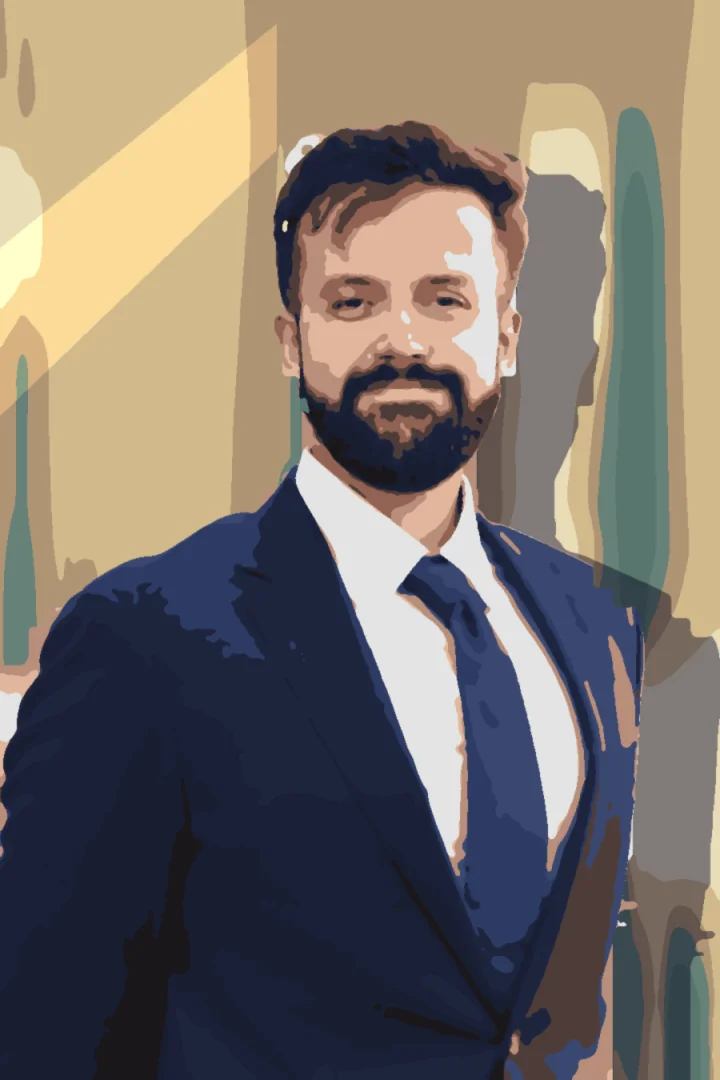
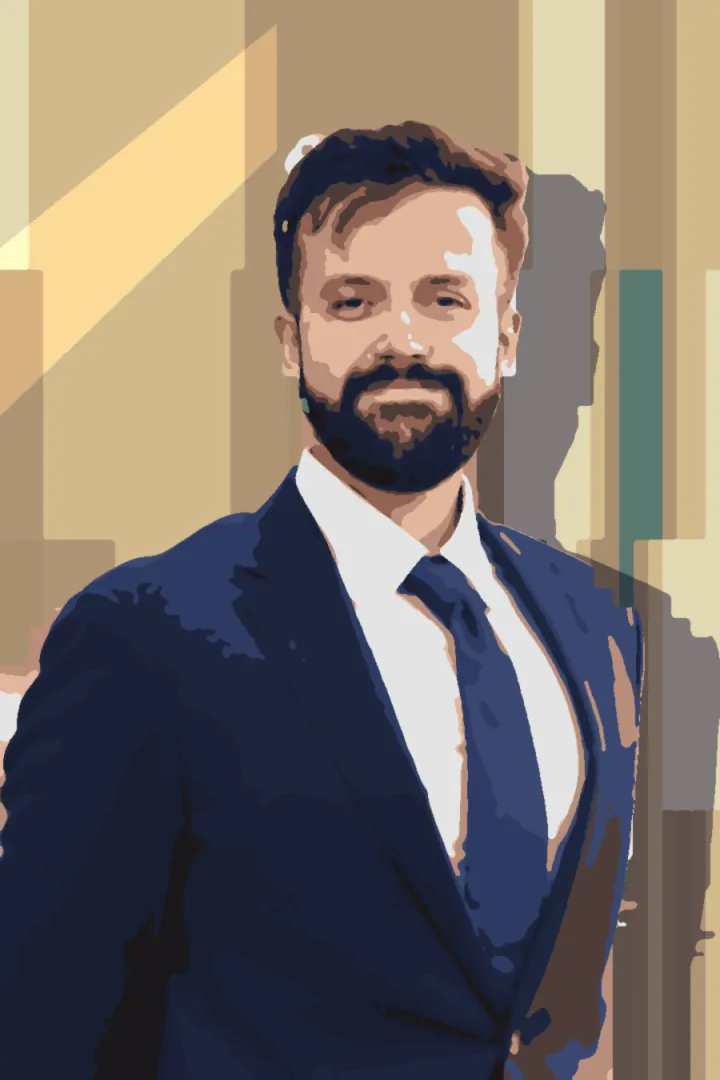
feat: refine the after-hours gallery portraits (#679)
* feat: refine the portrait paintings and show them uncropped in the gallery

Monet keeps broad strokes instead of grain, Seurat drops the confetti
sparks from the face and suit, Hopper's wall becomes straight panels,
and Lichtenstein's skin screen is finer. The gallery shows the 2:3
paintings at full size instead of cropping them to 4:5.

* chore: remove the portrait renderers again and point the docs at them

diff --git a/src/components/discoveries/PainterGallery.tsx b/src/components/discoveries/PainterGallery.tsx
@@ -13,7 +13,7 @@ const LABELS = [
 export function PainterGallery() {
   return <>
     <div className={styles.gallery}>{PAINTERS.map((painter, index) => <figure className={styles.painting} key={painter}>
-      <Image src={`/images/home/headshot-${painter}.webp`} alt={`Isaac's portrait in a style inspired by ${LABELS[index][1].slice(6)}`} width={480} height={600} sizes="(max-width: 640px) 90vw, 320px" loading={index < 3 ? "eager" : "lazy"} />
+      <Image src={`/images/home/headshot-${painter}.webp`} alt={`Isaac's portrait in a style inspired by ${LABELS[index][1].slice(6)}`} width={720} height={1080} sizes="(max-width: 640px) 90vw, 320px" loading={index < 3 ? "eager" : "lazy"} />
       <figcaption><h2>{LABELS[index][0]}</h2><p className={styles.note}>{LABELS[index][1]} · Digital study</p><p>{LABELS[index][2]}</p></figcaption>
     </figure>)}</div>
     <p className={styles.note}>Five interpretations of the same headshot. These are styled portraits, and the labels are part of the joke.</p>

diff --git a/src/components/discoveries/discoveries.module.css b/src/components/discoveries/discoveries.module.css
@@ -25,7 +25,7 @@
 .station { display: flex; align-items: center; min-height: 44px; padding: var(--c97-sp-1); margin-right: var(--c97-sp-1); text-decoration: underline; text-underline-offset: 4px; }
 .gallery { display: grid; grid-template-columns: repeat(auto-fit, minmax(min(100%, 260px), 1fr)); gap: var(--c97-sp-4); }
 .painting { border: 1px solid var(--c97-rule); padding: var(--c97-sp-2); }
-.painting img { width: 100%; height: auto; aspect-ratio: 4 / 5; object-fit: cover; }
+.painting img { width: 100%; height: auto; aspect-ratio: 2 / 3; }
 .painting h2 { font-family: var(--c97-font-display); font-size: 1.3rem; margin-top: var(--c97-sp-2); }
 .painting p { margin-top: var(--c97-sp-1); }
 .retro { border: 5px ridge var(--c97-rule); padding: var(--c97-sp-3); background: repeating-linear-gradient(45deg, transparent 0 20px, var(--c97-accent-soft) 20px 22px); font-family: Georgia, serif; }

diff --git a/docs/EASTER_EGGS.md b/docs/EASTER_EGGS.md
@@ -47,7 +47,7 @@ Most of the site-wide ones mount from the header, which is on every route. `src/
 
 Hovering anywhere in the portrait's section on the home page or /about shows a 150px circle of a painted version of the headshot that follows the pointer. Clicking the portrait hands it to the next painter, from Monet (the default), to Van Gogh, to Seurat, to Hopper, to Lichtenstein, and back to Monet. The choice lives on the element, so a reload or a navigation resets it to Monet, and each painting downloads the first time someone hovers it. The pointer-following reveal runs only where hover is real and motion is welcome. The explicit Another painter control shows a still full painting on any screen, and on a touch screen or with reduced motion a tap or click on the portrait itself does the same. Seeing all five painters opens the after-hours gallery link.
 
-The paintings are rendered ahead of time from `public/images/headshot-home.webp` into `public/images/home/headshot-<painter>.webp`, Monet by `scripts/paint_impressionist.py` and the other four by `scripts/paint_headshot.py`. Both renderers were removed on 2026-10-01 and can be restored from git history (commit fa4849574). Adding a painter means a render, an entry in `PAINTERS` in `src/lib/siteDiscoveries.ts` (which `Catalog97Monet.tsx`, `PortraitControls.tsx`, and `PainterGallery.tsx` all read), a museum label in `LABELS` in `PainterGallery.tsx`, and a `[data-c97-painter]` rule in `catalog97.css`.
+The paintings are rendered ahead of time from `public/images/headshot-home.webp` into `public/images/home/headshot-<painter>.webp`, Monet by `scripts/paint_impressionist.py` and the other four by `scripts/paint_headshot.py`. Both renderers were removed again after the 2026-11-09 refinement and can be restored from git history (commit 6bc0cb9d0), which holds the versions that made the current Monet, Seurat, Hopper, and Lichtenstein files. Van Gogh's file is older and came from the commit fa4849574 version. Adding a painter means a render, an entry in `PAINTERS` in `src/lib/siteDiscoveries.ts` (which `Catalog97Monet.tsx`, `PortraitControls.tsx`, and `PainterGallery.tsx` all read), a museum label in `LABELS` in `PainterGallery.tsx`, and a `[data-c97-painter]` rule in `catalog97.css`.
 
 ## Monet name by time of day
 
@@ -194,7 +194,7 @@ Searching exactly `Isaac` or `Isaac Vazquez`, ignoring case and repeated spaces,
 
 ### After-hours portrait gallery
 
-The Another painter button beside the Home and About portraits cycles the same five painters as clicking the image. After all five have appeared, The gallery is open links to `/back-room/gallery`, which shows all five existing paintings with fictional museum labels. The button shows a still painting on every screen, touch screens and reduced motion included, and works with a keyboard. Discovery resets when the portrait controls unmount. The original pointer-following reveal stays available on hover-capable devices without reduced motion until the button is pressed, since the button leaves the full still painting on the portrait until the page is left.
+The Another painter button beside the Home and About portraits cycles the same five painters as clicking the image. After all five have appeared, The gallery is open links to `/back-room/gallery`, which shows all five existing paintings uncropped at their 2:3 shape with fictional museum labels. The button shows a still painting on every screen, touch screens and reduced motion included, and works with a keyboard. Discovery resets when the portrait controls unmount. The original pointer-following reveal stays available on hover-capable devices without reduced motion until the button is pressed, since the button leaves the full still painting on the portrait until the page is left.
 
 ### Article commentary
 
